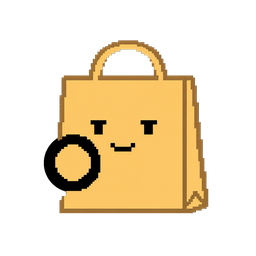
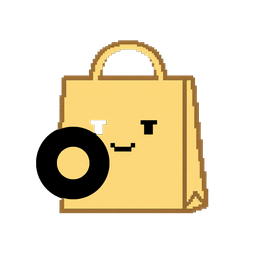
Fix mascot ring legibility, color mismatch, and make happy pose persist
Reprocessed the three source images with two fixes: the scanning pose's magnifying glass read as a blurry plain circle at the ~64px display size, so repainted it thicker so it stays legible at that size. The three poses' fill colors didn't actually match - confirmed via HSV analysis this was a real inconsistency in the source images, fixed with a brightness-weighted hue/saturation correction toward idle's fill color. Also changed the happy pose from a ~1.8s auto-reverting pulse to persisting indefinitely once triggered - it now only clears on Save trip, tracked via the active trip id in useMascotPose, not on a timer. Capturing a second receipt while already happy still goes through scanning first, then back to happy. e2e/mascot-pose.spec.ts rewritten to cover happy persisting well past the old pulse duration and through dismissing the review panel, plus a second test for scanning-while-already-happy.

Changed region(s): [[0.125, 0.4688, 0.4375, 0.7812]]

diff --git a/e2e/mascot-pose.spec.ts b/e2e/mascot-pose.spec.ts
@@ -10,28 +10,37 @@ function mascotPose(page: Page) {
   return page.getByTestId('mascot').getAttribute('data-pose')
 }
 
-test('mascot goes idle -> scanning while processing -> happy on success -> idle again', async ({ page }) => {
-  await page.goto('/')
-  await expect.poll(() => mascotPose(page)).toBe('idle')
-
-  // Delay the mocked extraction response so the "scanning" pose has a
-  // window to actually be observed, same as the other receipt specs' use
-  // of route mocking to drive the client-side status machine deterministically.
+// Delay the mocked extraction response so the "scanning" pose has a window
+// to actually be observed, same as the other receipt specs' use of route
+// mocking to drive the client-side status machine deterministically.
+async function mockSlowExtraction(page: Page, delayMs = 500) {
   await page.route('**/api/extract-receipt', async (route) => {
-    await new Promise((resolve) => setTimeout(resolve, 500))
+    await new Promise((resolve) => setTimeout(resolve, delayMs))
     await route.fulfill({
       status: 200,
       contentType: 'application/json',
       body: JSON.stringify({ items: [{ name: 'Milk', price: 3.49, category: 'dairy' }] }),
     })
   })
+}
 
+async function captureAndProcess(page: Page) {
   await page.getByTestId('receipt-capture-input').setInputFiles({
     name: 'receipt.png',
     mimeType: 'image/png',
     buffer: SAMPLE_IMAGE,
   })
   await page.getByTestId('receipt-process-button').click()
+}
+
+test('mascot goes idle -> scanning while processing -> happy on success, and stays happy (not a brief pulse) until Save trip', async ({
+  page,
+}) => {
+  await page.goto('/')
+  await expect.poll(() => mascotPose(page)).toBe('idle')
+
+  await mockSlowExtraction(page)
+  await captureAndProcess(page)
 
   await expect(page.getByTestId('receipt-status').first()).toHaveText('Processing…')
   await expect.poll(() => mascotPose(page)).toBe('scanning')
@@ -39,7 +48,35 @@ test('mascot goes idle -> scanning while processing -> happy on success -> idle 
   await expect(page.getByTestId('receipt-status').first()).toHaveText('Processed')
   await expect.poll(() => mascotPose(page)).toBe('happy')
 
-  // The happy pose is a brief pulse (~1.8s in the app), not a new steady
-  // state — it must revert to idle on its own, not stay stuck.
-  await expect.poll(() => mascotPose(page), { timeout: 5000 }).toBe('idle')
+  // Dismissing the review panel (without saving the trip) must not clear
+  // it either — only Save trip does.
+  await page.getByTestId('receipt-review-dismiss').click()
+  await expect(page.getByTestId('receipt-review-panel')).toHaveCount(0)
+  expect(await mascotPose(page)).toBe('happy')
+
+  // A brief pulse used to revert on its own after ~1.8s — it must not
+  // anymore. Wait well past that old duration and confirm it's still happy.
+  await page.waitForTimeout(2500)
+  expect(await mascotPose(page)).toBe('happy')
+
+  // Saving the trip starts a fresh draft — that's what returns it to idle.
+  await page.getByTestId('save-trip-button').click()
+  await expect.poll(() => mascotPose(page)).toBe('idle')
+})
+
+test('capturing a second receipt while happy goes back through scanning, then returns to happy', async ({ page }) => {
+  await page.goto('/')
+
+  await mockSlowExtraction(page)
+  await captureAndProcess(page)
+  await expect(page.getByTestId('receipt-status').first()).toHaveText('Processed')
+  await expect.poll(() => mascotPose(page)).toBe('happy')
+
+  await mockSlowExtraction(page)
+  await captureAndProcess(page)
+  await expect(page.getByTestId('receipt-status').first()).toHaveText('Processing…')
+  await expect.poll(() => mascotPose(page)).toBe('scanning')
+
+  await expect(page.getByTestId('receipt-status').first()).toHaveText('Processed')
+  await expect.poll(() => mascotPose(page)).toBe('happy')
 })

diff --git a/src/features/mascot/useMascotPose.ts b/src/features/mascot/useMascotPose.ts
@@ -1,37 +1,43 @@
 import { useEffect, useRef, useState } from 'react'
 import { usePendingReceipt } from '../receipt-review/usePendingReceipt'
+import { useActiveTripId } from '../trip/useActiveTripId'
 
 export type MascotPose = 'idle' | 'scanning' | 'happy'
 
-// Long enough to register as a reaction, short enough not to overstay once
-// the user's attention has already moved to the review panel.
-const HAPPY_POSE_DURATION_MS = 1800
-
 /**
- * scanning while a receipt is actively being extracted, a brief happy pulse
- * the moment a *new* done-and-unreviewed receipt shows up (extraction
- * succeeded, items are ready for review), idle otherwise. `isProcessing` is
- * passed in rather than derived here from another `useReceiptCapture()` call
- * — that hook also wires up the online-sync effect and stranded-processing
- * reclaim, which must stay singletons; this hook only needs the boolean its
- * caller already has.
+ * scanning while a receipt is actively being extracted, happy once
+ * extraction succeeds (a done-and-unreviewed receipt shows up) — and happy
+ * *stays* until the trip is saved, not a brief pulse. If another receipt
+ * gets captured and processed while already happy (e.g. a second scan),
+ * scanning takes priority for that window and it reverts to happy once that
+ * one finishes too — reviewing/dismissing the panel does not clear it,
+ * only actually saving the trip (a new active tripId) does, since that's
+ * the point a fresh, not-yet-successful trip begins.
+ *
+ * `isProcessing` is passed in rather than derived here from another
+ * `useReceiptCapture()` call — that hook also wires up the online-sync
+ * effect and stranded-processing reclaim, which must stay singletons; this
+ * hook only needs the boolean its caller already has.
  */
 export function useMascotPose(isProcessing: boolean): MascotPose {
+  const tripId = useActiveTripId()
   const pendingReceipt = usePendingReceipt()
   const [showHappy, setShowHappy] = useState(false)
   const lastSeenReceiptId = useRef<number | null>(null)
+  const lastTripId = useRef(tripId)
 
   useEffect(() => {
-    if (!pendingReceipt) {
-      lastSeenReceiptId.current = null
-      return
-    }
+    if (tripId === lastTripId.current) return
+    lastTripId.current = tripId
+    setShowHappy(false)
+    lastSeenReceiptId.current = null
+  }, [tripId])
+
+  useEffect(() => {
+    if (!pendingReceipt) return
     if (lastSeenReceiptId.current === pendingReceipt.id) return
     lastSeenReceiptId.current = pendingReceipt.id
-
     setShowHappy(true)
-    const timeout = setTimeout(() => setShowHappy(false), HAPPY_POSE_DURATION_MS)
-    return () => clearTimeout(timeout)
   }, [pendingReceipt])
 
   if (isProcessing) return 'scanning'

diff --git a/CLAUDE.md b/CLAUDE.md
@@ -325,17 +325,52 @@ model.
     boolean by the caller, deliberately not read via its own
     `useReceiptCapture()` call — that hook also wires up the online-sync
     effect and stranded-processing reclaim, which must stay singletons);
-    otherwise a brief `happy` pulse (~1.8s) the first time a new
-    done-and-unreviewed receipt shows up (`usePendingReceipt`, the same
-    signal the review panel itself uses), then back to `idle`.
+    otherwise `happy` once a done-and-unreviewed receipt shows up
+    (`usePendingReceipt`, the same signal the review panel itself uses),
+    persisting until the trip is saved, then `idle`.
     `src/features/mascot/Mascot.tsx` is just the `<img>` for a given pose.
   - Rendered in `ReceiptCapture.tsx`, to the right of the "Receipt"
     heading/"Add receipt photo" button column (a flex row wrapping what
     used to be the section's direct children).
-  - Covered by `e2e/mascot-pose.spec.ts` (idle -> scanning -> happy ->
-    back to idle, using a delayed mocked extraction response so the
-    scanning window is actually observable) — extends the same
-    stateful-flow coverage philosophy as the M4/M5 receipt tests.
+  - Covered by `e2e/mascot-pose.spec.ts` — extends the same stateful-flow
+    coverage philosophy as the M4/M5 receipt tests.
+- **Mascot pose follow-ups (ring legibility, color match, happy
+  persistence)**: done and verified in production.
+  - The scanning pose's magnifying glass read as a plain blurry circle at
+    the ~64px size it's actually displayed at — its ring was only ~48px
+    thick in the 1254px source (already thin relative to the whole
+    graphic), which shrinks to under 3px by the time it's scaled down.
+    Fixed at the processing-pipeline level (not by changing the app's
+    display size): the ring is now repainted thicker — inner/outer radius
+    80/178px instead of the original ~88/136px, mostly expanded outward so
+    the lens' negative space stays recognizable — directly in the source
+    raster before the 256×256 resize, so it stays legible once scaled down
+    to display size.
+  - The three poses' fill colors didn't actually match — confirmed this
+    was a real inconsistency in the user's three separately-generated
+    source images (measured via HSV: all three have near-identical
+    brightness/value ~98%, but the scanning pose's fill is both more
+    saturated and more orange-shifted in hue than idle's), not anything
+    introduced by the transparency/resize pipeline. Fixed with a
+    brightness-weighted hue/saturation correction — shift scanning's and
+    happy's fill hue/saturation toward idle's (the reference), with the
+    correction strength ramping from 0 at outline-dark brightness to full
+    strength at fill-bright brightness, so the already-consistent brown
+    outline color is left alone while the mismatched fill gets corrected.
+  - The happy pose was originally a ~1.8s pulse that auto-reverted to
+    idle — easy to miss. Changed to persist indefinitely once triggered,
+    only clearing on Save trip (a new active trip id, tracked in
+    `useMascotPose` via `useActiveTripId`) rather than on a timer;
+    dismissing/confirming the review panel no longer affects it. If a
+    second receipt gets captured and processed while already happy,
+    `scanning` still takes priority for that window (the `isProcessing`
+    check runs first) and it reverts to `happy` once that one finishes too
+    — the happy state itself was never cleared in between, so there's
+    nothing to "return to" so much as it was never interrupted.
+  - `e2e/mascot-pose.spec.ts` rewritten: covers happy persisting well past
+    the old pulse duration and through dismissing the review panel, only
+    clearing on Save trip; plus a second test for the
+    scanning-while-already-happy interruption case.
 
 ## Known issues
 
